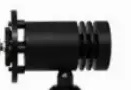
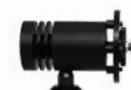
added payload

Changed region(s): [[0.0, 0.0889, 1.0, 1.0]]

diff --git a/experiment/simulation/js/activity1.js b/experiment/simulation/js/activity1.js
@@ -114,15 +114,15 @@ function a1_draw_all_components() {
     scene.add(sq);
     var diff_cir = new Chemistry.Circle(new Chemistry.Point(350, 515), 12, canvas);
     diff_cir.name = 'central spot';
-    diff_cir.color = '#7397D3';
+    diff_cir.color = 'red';
     scene.add(diff_cir);
     var diff_cir = new Chemistry.Circle(new Chemistry.Point(350, 450), 12, canvas);
     diff_cir.name = 'first order diffraction';
-    diff_cir.color = '#7397D3';
+    diff_cir.color = 'red';
     scene.add(diff_cir);
     var diff_cir = new Chemistry.Circle(new Chemistry.Point(350, 410), 12, canvas);
     diff_cir.name = 'second order diffraction';
-    diff_cir.color = '#7397D3';
+    diff_cir.color = 'red';
     scene.add(diff_cir);
 }
 //list of all activity 1 questions
@@ -147,7 +147,7 @@ function a1_load_questions() { }
     });
     question.push({
         srno: 3,
-        question: "Select <span style='color: #018fc3'> Central Spot </span>",
+        question: "Select <span style='color: #018fc3'> Central Spot </span> <span style='font-size:14px;'>(Click on the red circle only)</span>",
         ans: 'central spot',
         hint: ['Rectangular', 'Mounted Vertically', 'Has valves attached'],
     });
